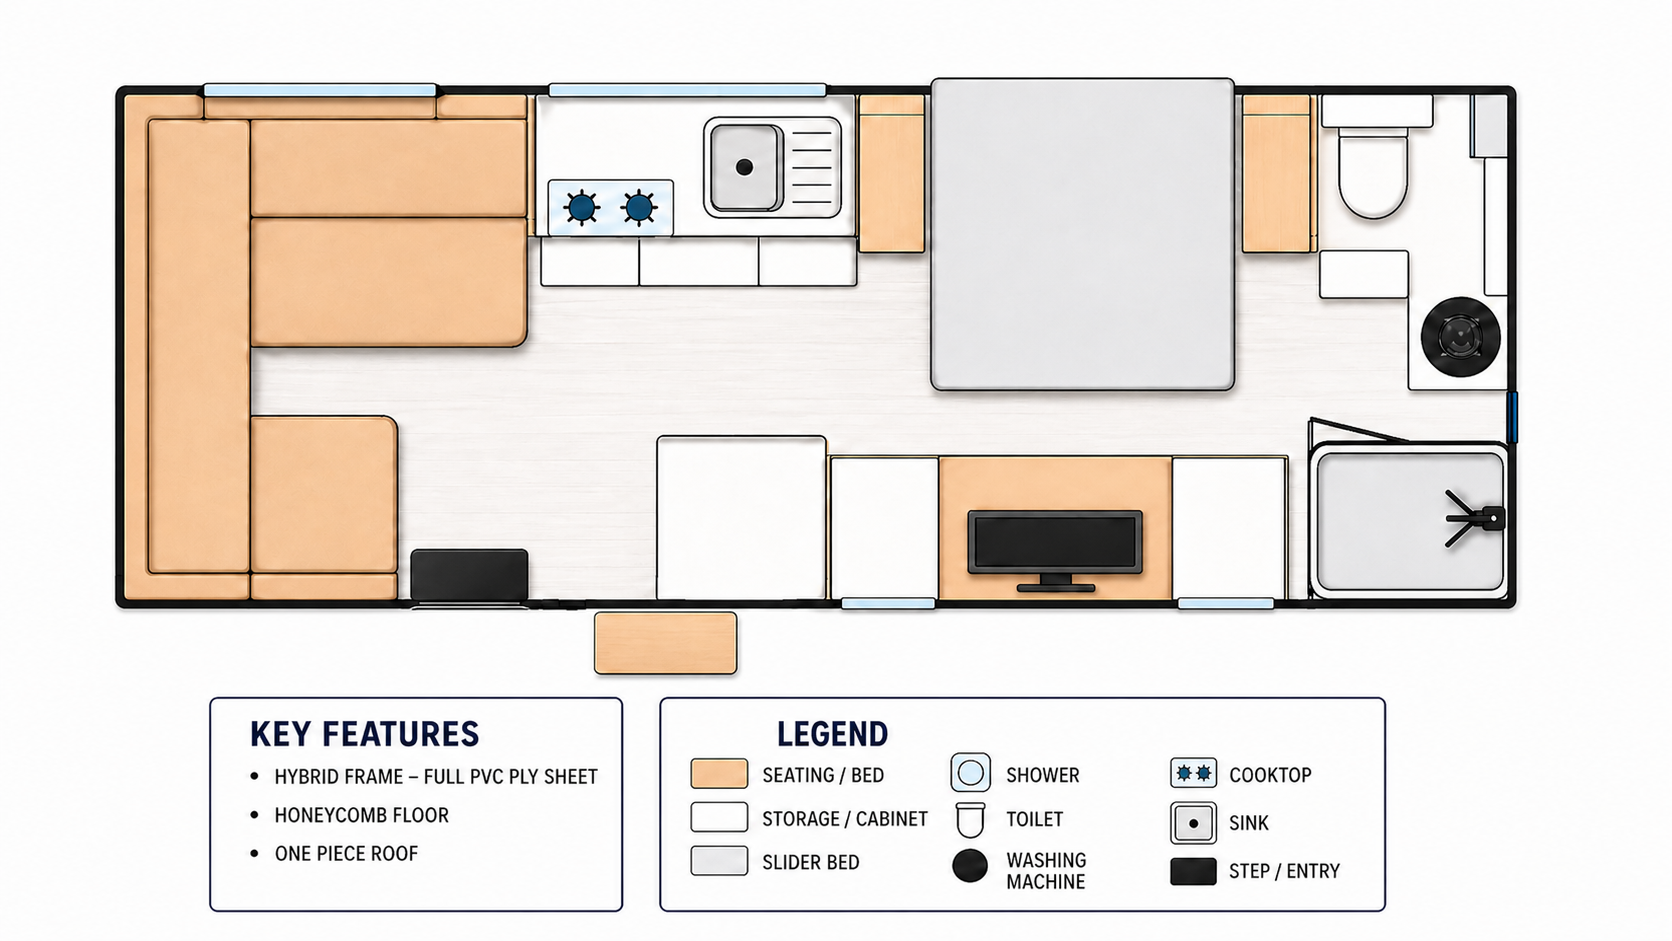
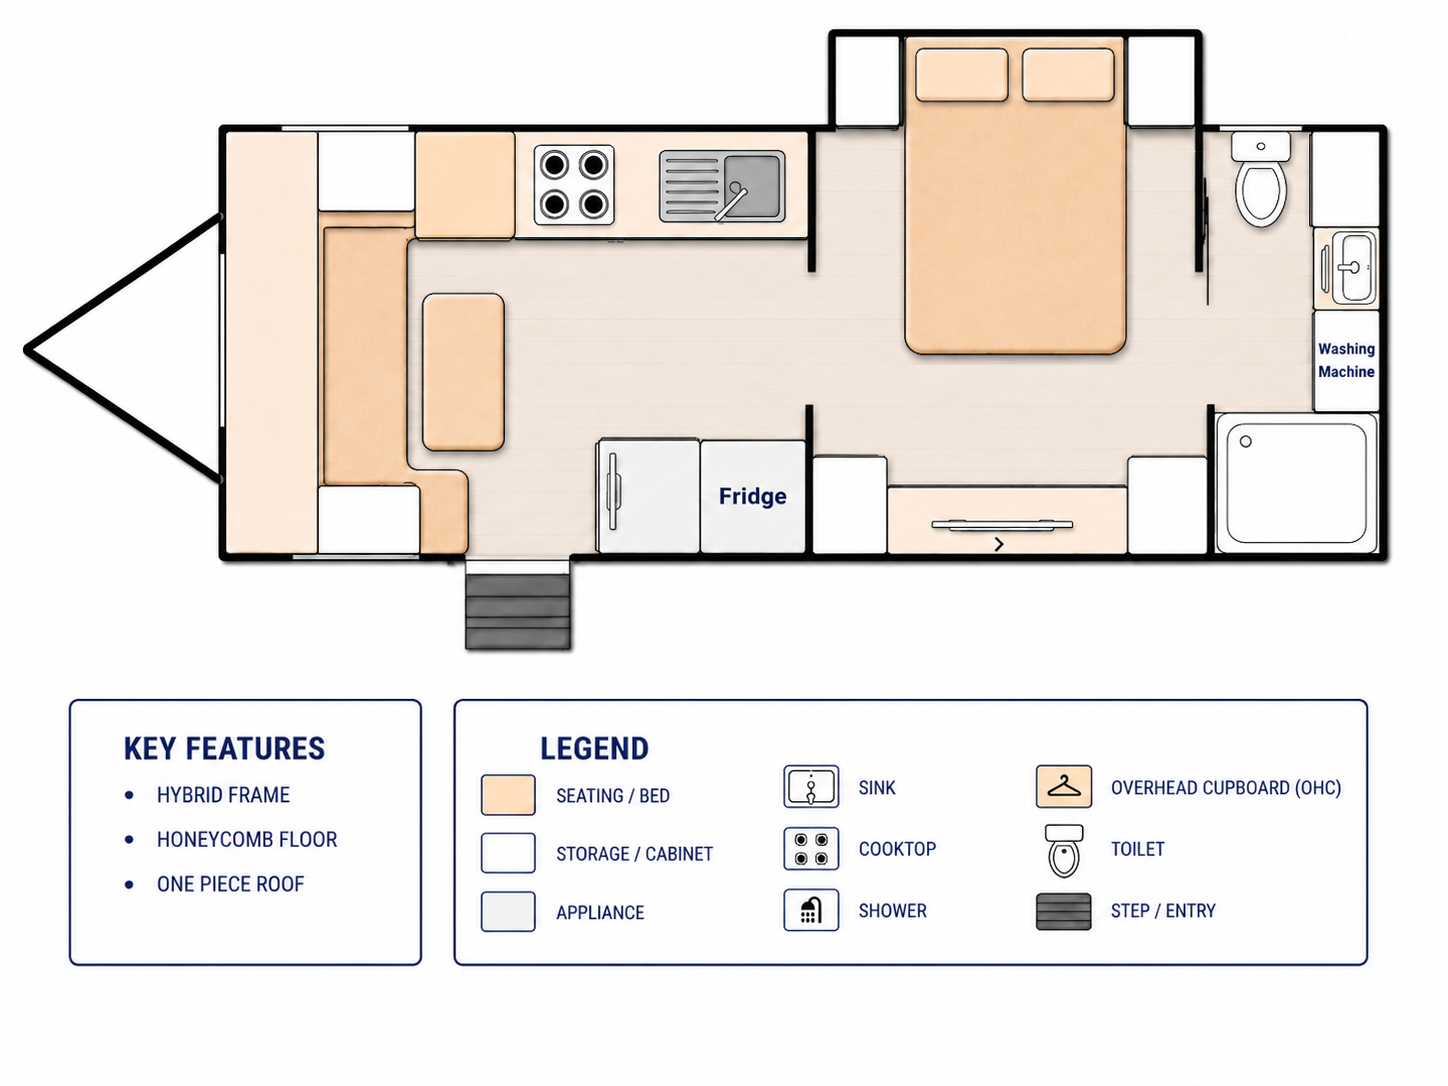
feat(models): new X-Master floor plans for Slide-Out and 17'6–19'6 Standard
Replace the X-Master Slide-Out floor plan drawing, and add dedicated
per-size plans for the 17'6, 18'6 and 19'6 X-Master Standard sizes
(previously shared the generic plans used by other models).

diff --git a/src/content/models.js b/src/content/models.js
@@ -417,9 +417,9 @@ export const models = [
         sizes: DEFAULT_SIZES,
         floorPlansBySize: {
           '16-6': '/images/blueprints/generic-16-6.png',
-          '17-6': '/images/blueprints/generic-17-6.png',
-          '18-6': '/images/blueprints/generic-18-6.png',
-          '19-6': '/images/blueprints/generic-19-6.png',
+          '17-6': '/images/blueprints/x-master-standard-17-6.png',
+          '18-6': '/images/blueprints/x-master-standard-18-6.png',
+          '19-6': '/images/blueprints/x-master-standard-19-6.png',
           '20-6': '/images/blueprints/generic-20-6.png',
           '22-6': '/images/blueprints/generic-22-6.png',
         },

diff --git a/CHANGELOG.md b/CHANGELOG.md
@@ -136,3 +136,5 @@
 - Updated the Dune chassis specifications — the build sheet now lists the DO35 3.5T coupling, 3.3T independent coil-spring dual-axle suspension, alloy A-frame toolbox with gas-bottle storage, dedicated freshwater and grey-water lines, galvanised wheel arches, a jerry can holder and an alloy entry step. The suspension pill now reads "3.3T independent coil-spring, dual axle" across every Dune size.
 - Updated the X-Master chassis specifications — sizes 16'6 to 18'6 now show 3.0T independent coil-spring single-axle with one jerry can holder, and sizes 19'6 to 22'6 (plus the Slide-Out) show 3.5T independent coil-spring dual-axle with two. Every X-Master size now lists the DO35 3.5T coupling, 6" A-frame with stone guard, LT265/75R15 tyres, 12" electric brakes, galvanised wheel arches, dedicated freshwater and grey-water lines, alloy A-frame toolbox with gas-bottle storage, alloy entry step, galvanised 3-bar rear bumper and quick-drop corner stands. The size selector swaps in the right values automatically.
 - Updated the Horizon chassis specifications — roller rocker tandem-axle suspension, box-tube cross members, galvanised wheel arches, dedicated freshwater line, alloy A-frame toolbox with gas-bottle storage, an alloy entry step and quick-drop corner stands now show on the build sheet. The suspension pill now reads "Roller rocker", and the description and feature pills now lead with the bunk bedroom so it's clear every Horizon size (19'6 through 22'6) ships with the four full-length bunks.
+- Updated the floor plan shown on the X-Master Slide-Out page with a new layout drawing.
+- Added dedicated floor plan drawings for the 17'6, 18'6 and 19'6 X-Master Standard sizes — selecting one of those sizes now shows its own layout instead of a generic plan.